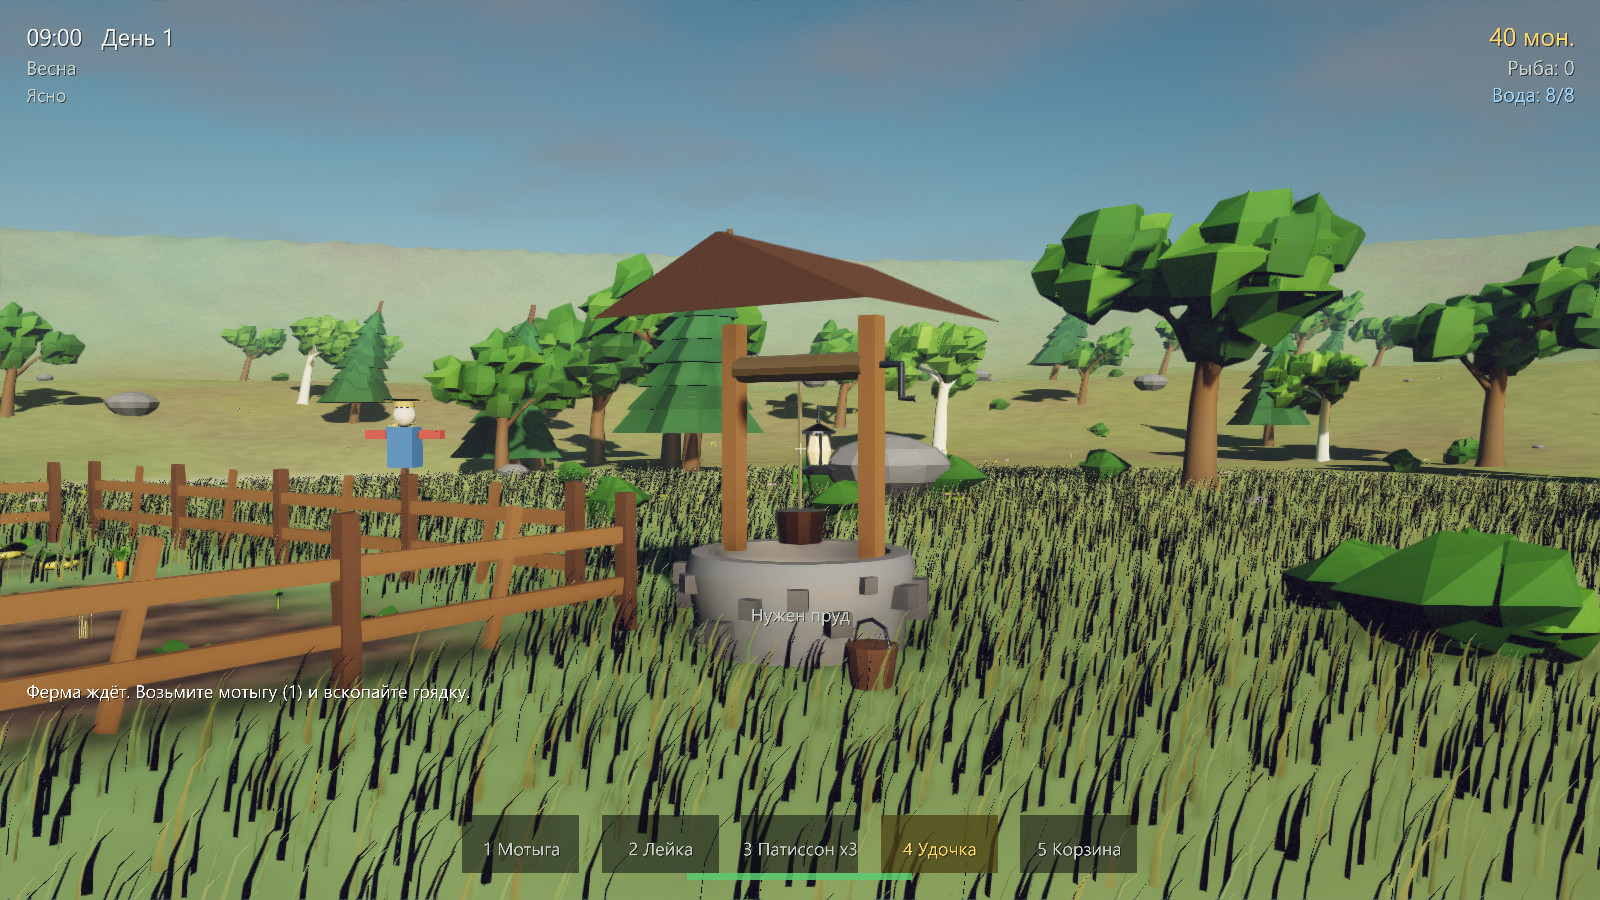
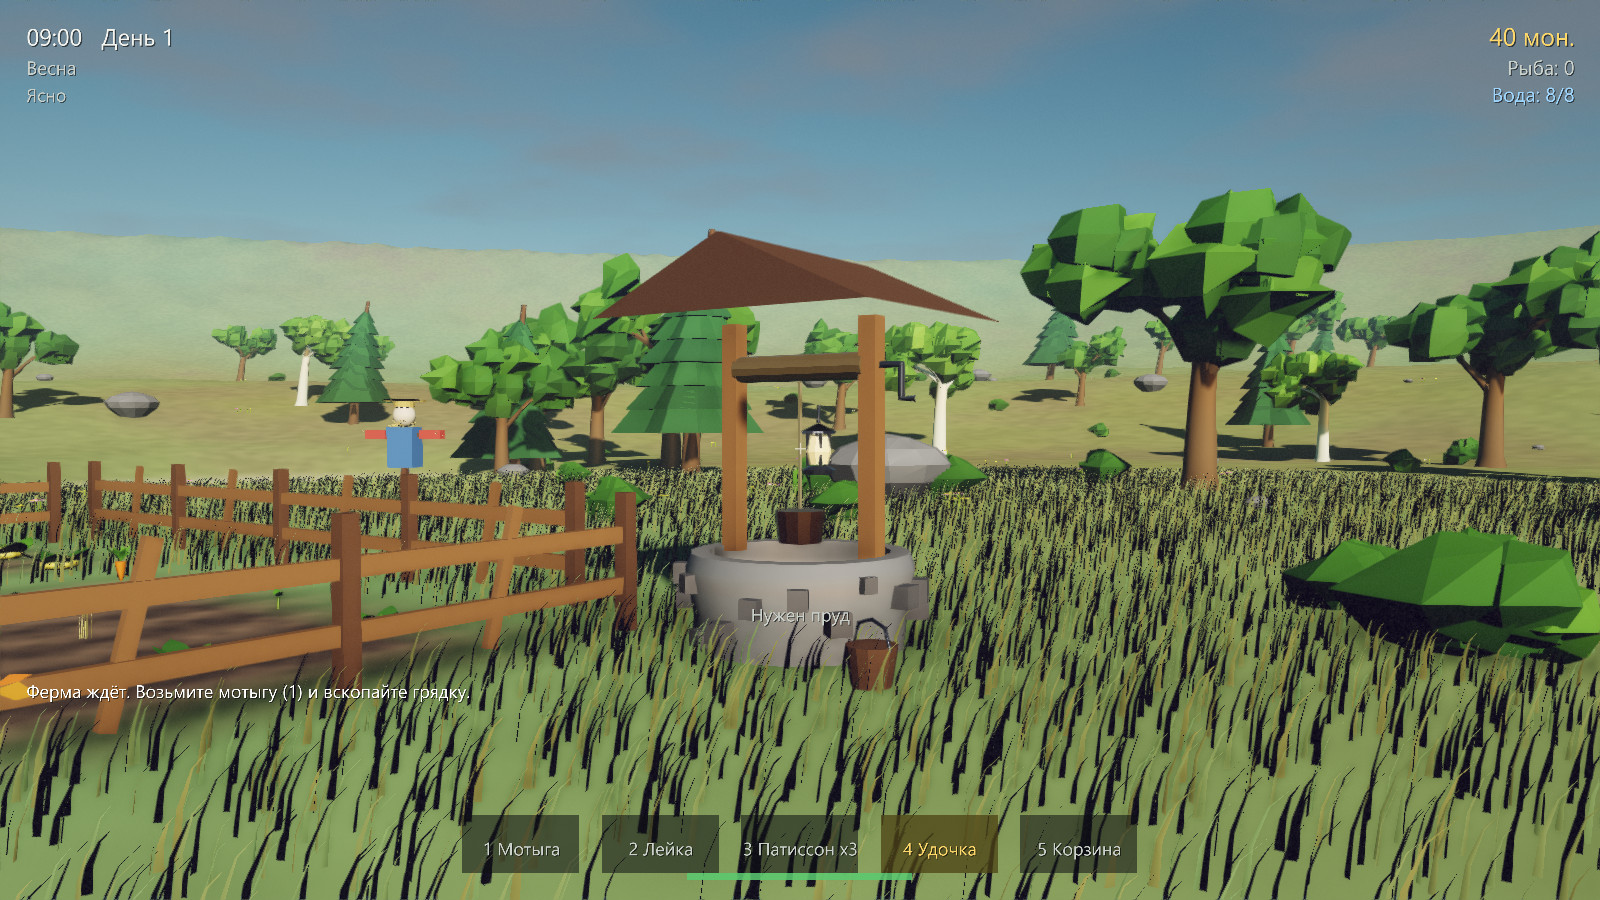
Patisson 2.0: the pond reflects the world
Water reflected only the sky. It now gets a planar reflection: the scene is
drawn a second time from a camera mirrored through the water plane, and the
water shader samples that image at the fragment's own screen position — which
is exactly where the mirrored camera drew it — nudged by the wave normal and
faded back to the sky wherever the lookup leaves the screen.

Costs 0.27 ms at the pond, and the pass switches itself off entirely once the
player walks away from it. Grass and the water itself are excluded from the
reflection camera.

Two things this turned up:

- The reflection camera renders with reversed winding, because mirroring flips
  it. That culled the single-sided sky quad, so the buffer had a black void
  where the sky belongs — and the water shader painted that void straight onto
  the pond, which is why it first came out darker than before. The sky is now
  two-sided.
- Fresnel was being computed from the rippled normal, so every wavelet swung
  the term and the reflection averaged away to nothing across the surface. A
  pond's macro geometry is a plane; Fresnel now follows a mostly-flat normal
  while the ripples still drive the lookup and the specular.

Honest scope: the effect is real but not dramatic here — verified by diffing
frames with the pass on and off, 6.5% of the frame changes by more than 5%
brightness, all of it in the water. This pond is small, shallow and ringed by
low banks, so most of it legitimately faces sky rather than trees.

diff --git a/patisson2/engine/reflection.py b/patisson2/engine/reflection.py
@@ -1,0 +1,84 @@
+"""Planar reflection for the pond.
+
+The water is a flat plane at a known height, so the cheapest correct reflection
+is a second render from a camera mirrored through that plane. The water shader
+then samples the result at the fragment's own screen position — which is
+exactly where the mirrored camera drew it — nudged by the wave normal.
+
+The pass is only alive while the player is near enough to see the pond, so most
+of the time it costs nothing at all.
+"""
+
+from __future__ import annotations
+
+from panda3d.core import (
+    CullFaceAttrib,
+    FrameBufferProperties,
+    NodePath,
+    Plane,
+    Point3,
+    RenderState,
+    SamplerState,
+    Texture,
+    Vec3,
+    Vec4,
+)
+
+from .pipeline import MASK_REFLECT
+
+
+class PlanarReflection:
+    def __init__(self, base, level: float, resolution_div: int = 2):
+        self.base = base
+        self.level = level
+        self.active = False
+
+        w = max(base.win.getXSize() // resolution_div, 64)
+        h = max(base.win.getYSize() // resolution_div, 64)
+
+        self.texture = Texture("reflection")
+        self.texture.setWrapU(Texture.WMClamp)
+        self.texture.setWrapV(Texture.WMClamp)
+        self.texture.setMinfilter(SamplerState.FT_linear)
+        self.texture.setMagfilter(SamplerState.FT_linear)
+
+        props = FrameBufferProperties()
+        props.setFloatColor(True)
+        props.setRgbaBits(16, 16, 16, 16)
+        props.setDepthBits(24)
+
+        self.buffer = base.win.makeTextureBuffer(
+            "reflection-buffer", w, h, self.texture, False, props)
+        # Just after the sky table, well before the scene buffer.
+        self.buffer.setSort(-3500)
+        self.buffer.setClearColor(Vec4(0, 0, 0, 1))
+        self.buffer.setActive(False)
+
+        self.camera = base.makeCamera(self.buffer)
+        self.camera.reparentTo(base.render)
+        self.camera.node().setLens(base.camLens)
+        self.camera.node().setCameraMask(MASK_REFLECT)
+        # Mirroring flips triangle winding, so back faces become front faces.
+        self.camera.node().setInitialState(
+            RenderState.make(CullFaceAttrib.makeReverse()))
+
+        self._plane = Plane(Vec3(0, 0, 1), Point3(0, 0, level))
+        self._mirror = self._plane.getReflectionMat()
+
+    def set_active(self, active: bool) -> None:
+        if active == self.active:
+            return
+        self.active = active
+        self.buffer.setActive(active)
+
+    def update(self, player_pos: Vec3, water_centre, radius: float) -> None:
+        """Mirror the main camera, and only run the pass when it can be seen."""
+        dx = player_pos.x - water_centre[0]
+        dy = player_pos.y - water_centre[1]
+        near = (dx * dx + dy * dy) < (radius + 32.0) ** 2
+        self.set_active(near)
+        if not near:
+            return
+        cam = self.base.cam
+        self.camera.setMat(self.base.render,
+                           cam.getMat(self.base.render) * self._mirror)

diff --git a/patisson2/world/world.py b/patisson2/world/world.py
@@ -14,7 +14,8 @@ from panda3d.core import (
 )
 
 from ..config import WorldConfig
-from ..engine.pipeline import MASK_SHADOW
+from ..engine.pipeline import MASK_REFLECT, MASK_SHADOW
+from ..engine.reflection import PlanarReflection
 from ..engine.shaderlib import make_shader
 from .daynight import SEASON_STYLE
 from .grass import build_blade_node
@@ -125,6 +126,10 @@ class World:
         self.terrain_np = node
 
     def _build_water(self):
+        from .terrain import POND_CENTRE, POND_RADIUS
+        self.pond_centre = POND_CENTRE
+        self.pond_radius = POND_RADIUS
+        self.reflection = PlanarReflection(self.base, self.cfg.water_level)
         bounds = water_bounds(self.terrain)
         if bounds is None:
             self.water_np = None
@@ -140,10 +145,14 @@ class World:
         node.setShaderInput("u_shallowColor", Vec3(0.30, 0.62, 0.60))
         node.setShaderInput("u_deepColor", Vec3(0.045, 0.16, 0.22))
         node.setShaderInput("u_foamWidth", 0.42)
+        node.setShaderInput("u_reflection", self.reflection.texture)
+        node.setShaderInput("u_reflectStrength", 0.0)
         node.setTransparency(TransparencyAttrib.MAlpha)
         node.setBin("transparent", 20)
         node.setDepthWrite(False)
         node.hide(MASK_SHADOW)
+        # The water must not appear in its own reflection.
+        node.hide(MASK_REFLECT)
         self.water_np = node
         self.water_bounds = bounds
 
@@ -160,6 +169,9 @@ class World:
         node.setShaderInput("u_waterLevel", self.cfg.water_level)
         node.setShaderInput("u_heightScale", 0.42)
         node.hide(MASK_SHADOW)
+        # Grass is the most expensive thing on screen and reads as a green
+        # smear at reflection resolution; the terrain under it is enough.
+        node.hide(MASK_REFLECT)
         self.grass_np = node
 
     # ----------------------------------------------------------------- season
@@ -184,6 +196,9 @@ class World:
         self.mask.commit()
         if self.water_np is not None:
             self.water_np.setShaderInput("u_time", time)
+            self.reflection.update(player_pos, self.pond_centre, self.pond_radius)
+            self.water_np.setShaderInput(
+                "u_reflectStrength", 0.85 if self.reflection.active else 0.0)
         self.grass_np.setShaderInput("u_center", Vec3(player_pos.x, player_pos.y, 0).xy)
         self.grass_np.setShaderInput("u_time", time)
         self.grass_np.setShaderInput("u_wind", wind)

diff --git a/patisson2/tools/shots.py b/patisson2/tools/shots.py
@@ -108,12 +108,17 @@ def capture(out_dir: Path = DEFAULT_OUT, width: int = 1600, height: int = 900):
     shot("03-patisson-ripe.png", hour=12.0)
 
     # 4. The pond, from the reeds.
-    from ..world.terrain import POND_CENTRE
+    from ..world.terrain import POND_CENTRE, POND_RADIUS
     px, py = POND_CENTRE
-    cx, cy = px + 13.0, py - 13.0
-    look_at(app.player, (px, py, cfg.world.water_level), (cx, cy, gz(cx, cy)))
+    # From the bank, eye just above the water, so the reflection is visible.
+    ang = math.radians(215)
+    cx = px + math.cos(ang) * (POND_RADIUS + 1.5)
+    cy = py + math.sin(ang) * (POND_RADIUS + 1.5)
+    tx = px - math.cos(ang) * (POND_RADIUS + 6.0)
+    ty = py - math.sin(ang) * (POND_RADIUS + 6.0)
+    look_at(app.player, (tx, ty, gz(tx, ty) + 2.5), (cx, cy, gz(cx, cy) + 0.25))
     st.tool_index = 3
-    shot("04-pond.png", hour=15.0, weather="clear")
+    shot("04-pond.png", hour=8.5, weather="clear")
 
     # 5. The well and the house.
     look_at(app.player, (7.5, 7.0, 1.4), (12.0, 0.5, gz(12.0, 0.5)))

diff --git a/patisson2/engine/pipeline.py b/patisson2/engine/pipeline.py
@@ -170,6 +170,10 @@ class RenderPipeline:
         sky.node().setBounds(OmniBoundingVolume())
         sky.node().setFinal(True)
         sky.hide(MASK_SHADOW)
+        # The planar reflection camera renders with reversed culling, which
+        # would cull this single-sided quad and leave a black hole where the
+        # sky belongs — painted straight onto the pond.
+        sky.setTwoSided(True)
         sky.setShader(make_shader("sky.vert", "sky.frag"), 10)
         self.sky = sky
 
